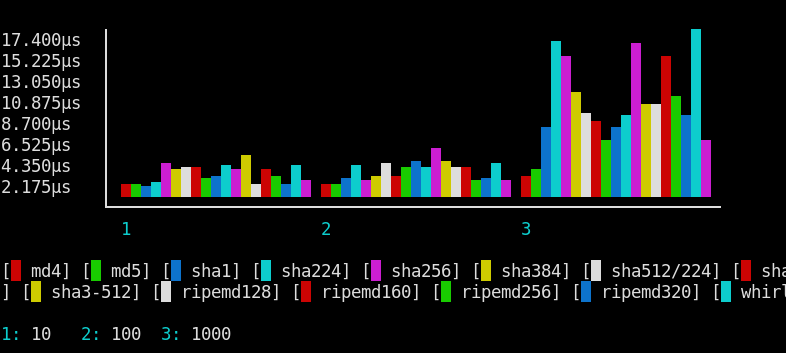
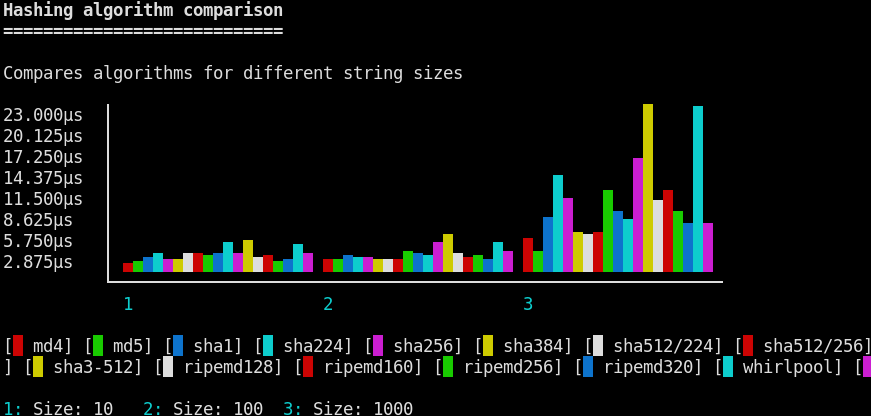
Use included report

Changed region(s): [[0.0, 0.0, 0.916, 0.6856], [0.0, 0.7167, 1.0, 1.0]]

diff --git a/lib/Report/Console/Renderer/ReportRenderer.php b/lib/Report/Console/Renderer/ReportRenderer.php
@@ -22,7 +22,6 @@ class ReportRenderer implements ObjectRendererInterface
         }
 
         if ($description = $object->description()) {
-            $output->writeln(sprintf('<title>%s</title>', $title));
             $output->writeln(sprintf('<description>%s</description>', $description));
             $output->writeln('');
         }

diff --git a/docs/examples/hashing.rst b/docs/examples/hashing.rst
@@ -1,5 +1,10 @@
-Hashing Benchmark
-=================
+Hashing
+=======
+
+.. figure:: ../images/example_hashing.png
+   :alt: Hashing Report
+
+   Console Output
 
 This hashing benchmark accepts two parameter sources: one for algorithms and the other
 for the size of the string to hash.
@@ -13,27 +18,7 @@ meaning that each algorithm will be combined with each size.
 
 You can configure a bar chart report grouping both by size and algorithm:
 
-.. code-block:: json
+.. literalinclude:: ../../examples/Benchmark/Hashing/hashing_report.json
+  :language: json
 
-    {
-        "report.generators": {
-            "hashing": {
-                "generator": "component",
-                "filter": "benchmark_name = 'HashingBench'",
-                "components": [
-                    {
-                        "component": "bar_chart_aggregate",
-                        "x_partition": "variant_params['algo']",
-                        "bar_partition": "variant_params['size']",
-                        "y_expr": "mode(partition['result_time_avg']) as time",
-                        "y_axes_label": "yValue as time"
-                    }
-                ]
-            }
-        }
-    }
 
-.. figure:: ../images/example_hashing.png
-   :alt: Hashing Report
-
-   Console Output

diff --git a/docs/report-components/barchart-aggregate.rst b/docs/report-components/barchart-aggregate.rst
@@ -34,3 +34,9 @@ Then it generates the following with the ``console`` renderer:
 .. approved:: ../../examples/Command/report-component-barchart-aggregate
   :language: bash
   :section: 2
+
+See Also
+--------
+
+- :doc:`../../examples/hashing`: Example barchart comparing hashing
+  algorithms.

diff --git a/docs/contents.rst b/docs/contents.rst
@@ -9,8 +9,8 @@ PHPBench is a benchmarking framework for PHP. Find it on Github_.
    installing
    quick-start
    guides
-   examples
    reference
+   examples
    extensions
    customisation
    development
